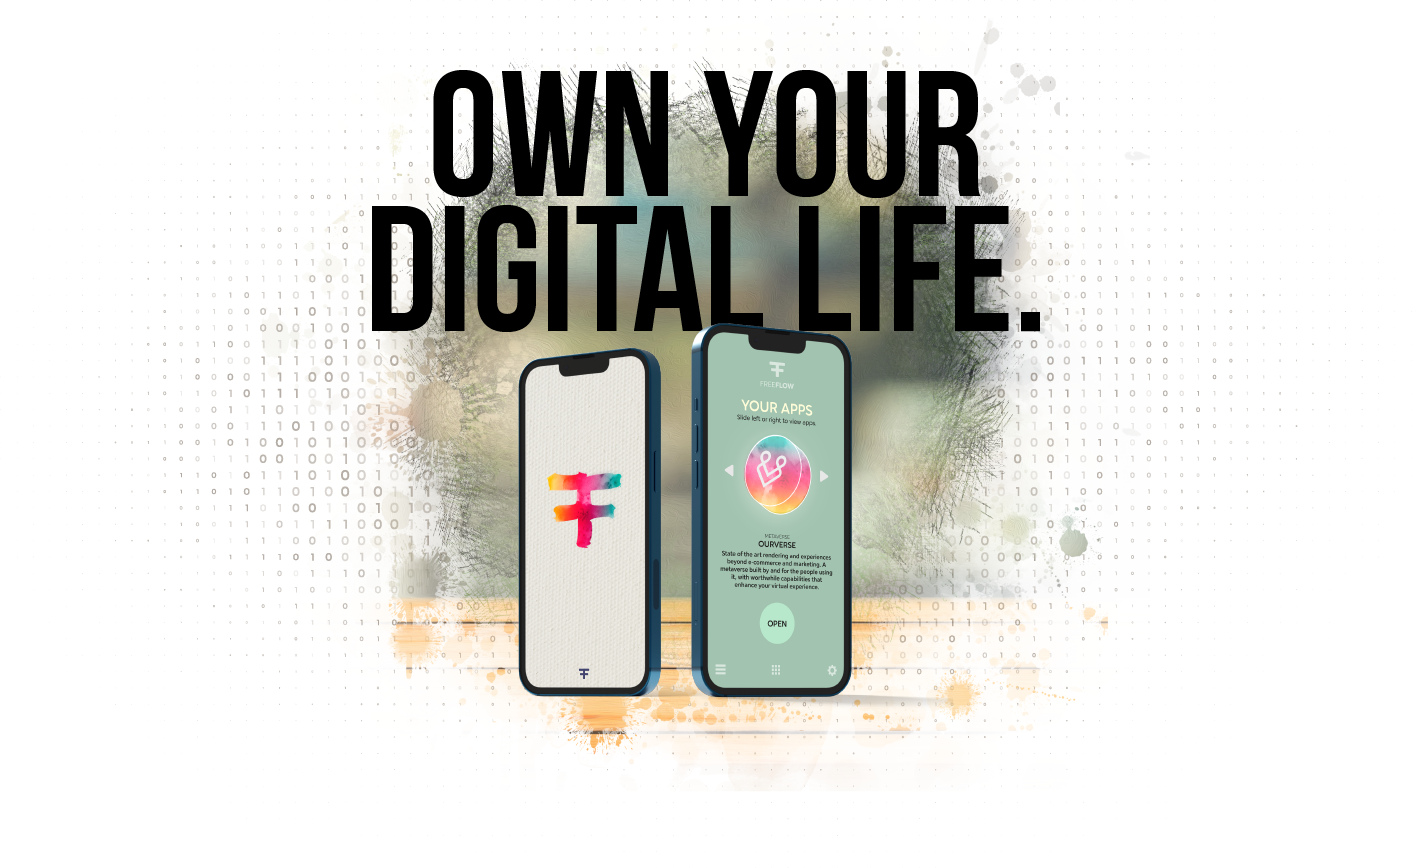
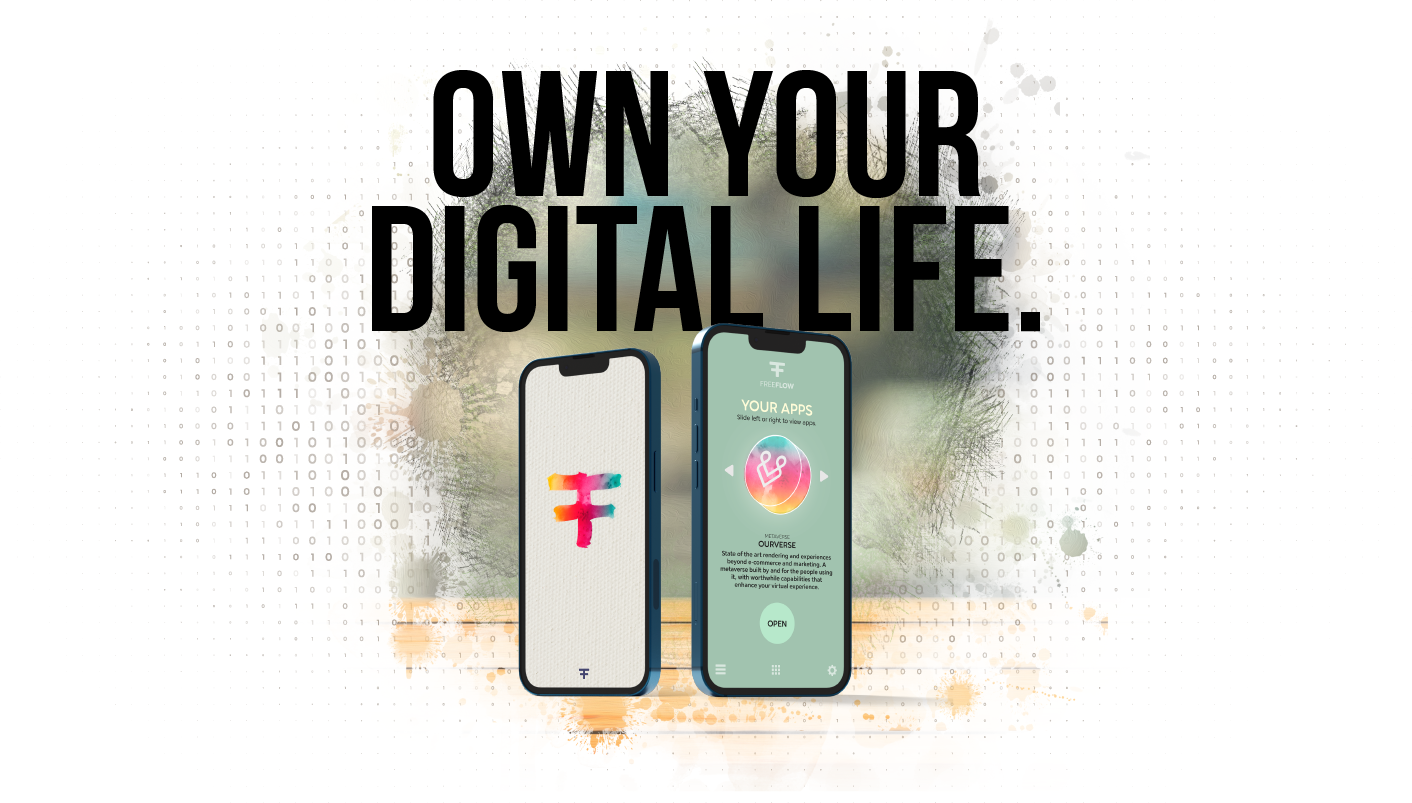
vision page image updates and row vertical spaciing fix

Changed region(s): [[0.1558, 0.0623, 0.779, 0.934], [0.7167, 0.0623, 0.7479, 0.1245], [0.8102, 0.4047, 0.8414, 0.4359]]

diff --git a/css/index.css b/css/index.css
@@ -36,8 +36,8 @@
 @font-face {
     font-family: "BebasNeue";
     font-weight: 600;
-    src: url("https://www2.freeflow.life/fonts/BebasNeue-Bold.otf") format("opentype");
-    src: url("../fonts/BebasNeue-Bold.otf") format("opentype");
+    src: url("https://www2.freeflow.life/fonts/BebasNeue-Bold.ttf") format("opentype");
+    src: url("../fonts/BebasNeue-Bold.ttf") format("opentype");
 }
 
 * {
@@ -96,19 +96,21 @@ img[src*="#tft_img"] {
 @layer components {
   h1, #h1  {
     @apply text-4xl md:text-4xl lg:text-6xl leading-none font-normal my-4;
+    font-family: "BebasNeue", sans-serif
   }
   h1 strong {
     @apply font-medium;
   }
   h2 {
-    @apply text-3xl md:text-4xl lg:text-5xl xl:text-5xl font-bold leading-none my-4;
-    font-family: "BebasNeue", sans-serif
+    @apply text-3xl md:text-4xl lg:text-5xl xl:text-8xl font-bold leading-none my-4;
+    font-family: "BebasNeue", sans-serif;
+    line-height: 0.8;
   }
   h2 strong {
     @apply font-medium;
   }
   h3 {
-    @apply text-xl md:text-2xl lg:text-3xl font-light my-4;
+    @apply text-xl md:text-xl lg:text-2xl font-normal my-4;
   }
   h3 strong {
     @apply font-medium;
@@ -123,7 +125,7 @@ img[src*="#tft_img"] {
     @apply text-lg not-italic font-normal my-1;
   }
   p {
-    @apply text-base lg:text-lg leading-tight tracking-normal font-normal my-4;
+    @apply text-base lg:text-xl leading-tight tracking-normal font-normal my-4;
     font-family: "CercoDEMO", sans-serif;
   }
   blockquote {
@@ -149,7 +151,11 @@ img[src*="#tft_img"] {
 }
 
 button:hover :is(:where(a)) {
-  color: #c6f8ff;
+  color: #984210;
+}
+
+button :is(:where(a)) {
+font-weight: 500;
 }
 
 button :is(:where(p)) {
@@ -163,6 +169,10 @@ button :is(:where(p)) {
     color: black;
     padding: 20px;
     width: fit-content;
+}
+
+.experience-btn p {
+    @apply text-lg;
 }
 
 .experience-btn:hover {

diff --git a/templates/shortcodes/row.html b/templates/shortcodes/row.html
@@ -35,7 +35,7 @@ Parameters:
 
 {% set columns = body | safe | markdown | split(pat="<p>|||</p>") %}
 
-{% set row_class =  "relative py-12 md:py-16 lg:py-20 flex flex-col sm:grid sm:grid-cols-2 sm:gap-10 md:flex md:flex-row flex-wrap max-w-fit "%}
+{% set row_class =  "relative py-4 md:py-8 lg:py-12 flex flex-col sm:grid sm:grid-cols-2 sm:gap-10 md:flex md:flex-row flex-wrap max-w-fit "%}
 
 <!-- aligns columns depending on col number-->
 {% if 2 < columns | length %}
@@ -75,6 +75,10 @@ Parameters:
         {% set col_class = col_class ~ " md:first:px-8  lg:first:px-20 lg:max-w-[50%] lg:mx-0 " ~ margin_left ~ margin_right %}
         {% set row_class = row_class ~ " sm:gap-0 " %}
     {% endif %}
+{% endif %}
+
+{% if css %}
+    {% set margin_class = margin_class ~ " " ~ css %}
 {% endif %}
 
 {% set row_class =  row_class ~ margin_class %}

diff --git a/tailwind.config.js b/tailwind.config.js
@@ -1,10 +1,14 @@
 /** @type {import('tailwindcss').Config} */
 module.exports = {
-  content: ['./templates/**/*.html'],
+  content: ['./templates/**/*.html', './content/**/*.md'],
   safelist: [
     {
         pattern: /(-|)(ml|mr)-(4|8|12|16|20|24|28)/,
         variants: ['sm', 'md', 'lg', 'first', 'first:sm', 'first:md', 'first:lg', 'last', 'last:sm', 'last:md', 'last:lg'],
+    },
+    {
+        pattern: /(pt|pb)-(0)/,
+        variants: ['!', 'lg', 'first', 'first:sm', 'first:md', 'first:lg', 'last', 'last:sm', 'last:md', 'last:lg'],
     }
   ],
   theme: {

diff --git a/css/layout.css b/css/layout.css
@@ -10,6 +10,9 @@ main {
 #text-6xl { @apply xl:text-6xl lg:text-5xl md:text-4xl sm:text-3xl}
 #text-7xl { @apply text-7xl }
 #text-8xl { @apply text-8xl }
+#text-9xl { 
+    font-size: 8rem;
+}
 
 #xp-heading { @apply m-0 }
 /*

diff --git a/content/vision/index.md b/content/vision/index.md
@@ -11,7 +11,7 @@ weight: 2
 
 {% row(style="center" bgPath="FFVISIONAsset_20.png" bgStyle="hero" margin="tight") %}
 
-![FF TWIN](FFVISIONAsset_21.png#fill)
+![FF TWIN](vision1.png#fill)
 
 A global network of decentralized compute and storage that fuels unparalleled privacy, impenetrable security and provides everyone with endless opportunities and complete control of their digital lives.
 
@@ -21,13 +21,13 @@ A global network of decentralized compute and storage that fuels unparalleled pr
 
 {% row(bgColor="#f0ece8" margin="moderate") %}
 
-![FF LIFE](FFVISIONAsset_22.png#fill)
+![FF LIFE](vision2.png#fill)
 
 |||
 
 ## IT STARTS WITH <br> THE FREEFLOW GRID
 
-![FF LIFE](FFVISIONAsset_23.png)
+![FF LIFE](vision3.png)
 
 People just like you deploy the FreeFlow Node is residential and commercial units.  
 
@@ -37,7 +37,7 @@ Our unique operating system interconnects these nodes to create the FreeFlow Gri
 
 {% row(style="center" bgColor="#f0ece8" margin="narrow") %}
 
-![FF LIFE](FFVISIONAsset_24.png#fill)
+![FF LIFE](vision5.png#fill)
 
 {% end %}
 
@@ -55,19 +55,19 @@ By eliminating the need for centralized servers, the FreeFlow Twin allows you, t
 
 |||
 
-![FF LIFE](FFVISIONAsset_25.png#fill)
+![FF LIFE](vision6.png#fill)
 
 {% end %}
 
 {% row(bgColor="#D9E7DF" margin="narrow") %}
 
-![FF LIFE](FFVISIONAsset_26.png#fill)
+![FF LIFE](vision7.png#fill)
 
 {% end %}
 
 {% row(margin="moderate") %}
 
-![FF LIFE](FFVISIONAsset_27.png#fill)
+![FF LIFE](vision8.png#fill)
 
 |||
 
@@ -83,15 +83,15 @@ Each application is decentralized and allows users a fully private and secure ex
 
 {% row(style="center" margin="narrow") %}
 
-![FF LIFE](FFVISIONAsset_28.png#fill)
+![FF LIFE](vision10.png#fill)
 
 {% end %}
 
 {% row(style="center" margin="tight" bgColor="#f9f8f6") %}
 
-![FF LIFE](FFVISIONAsset_29.png#fill)
+![FF LIFE](vision11.png#fill)
 
-Play your part in the rise of the new digital life. 
+### Play your part in the rise of the new digital life. 
 
 <button>[TAKE PART]("/experiences")</button>
 

diff --git a/content/node/index.md b/content/node/index.md
@@ -11,13 +11,16 @@ weight: 0
 
 {% row(style="center" margin="moderate" bgStyle="hero") %}
 
+<br>
+<br>
+
 ![FF Logo](node1.png#fill) 
 
 {% end %}
 
 {% row(style="center" margin="tight" bgColor="#F2EDE8") %}
 
-## EARN.
+## EARN.{#text-9xl}
 
 Provide the compute, storage and network capacity needed to store data and run applications on the FreeFlow Grid and start earning.
 
@@ -35,9 +38,9 @@ Provide the compute, storage and network capacity needed to store data and run a
 
 |||
 
-## BE THE <br> INTERNET.
+## BE THE <br> INTERNET.{#text-9xl}
 
-By simply plugging in a FreeFlow Node, you can provide the services that the world’s largest tech companies provide billions of users.
+### By simply plugging in a FreeFlow Node, you can provide the services that the world’s largest tech companies provide billions of users.
 
 {% end %}
 
@@ -49,9 +52,9 @@ By simply plugging in a FreeFlow Node, you can provide the services that the wor
 
 {% row(margin="moderate" bgColor="#F7F4F1") %}
 
-## LET'S <br> FREEFLOW.
+## LET'S <br> FREEFLOW. {#text-9xl}
 
-The FreeFlow Node was designed to fit any home or office. It is packed with performance for its price and doesn’t require any technical knowledge. Just order, plug it in and start earning!
+### The FreeFlow Node was designed to fit any home or office. It is packed with performance for its price and doesn’t require any technical knowledge. Just order, plug it in and start earning!
 
 <button>[GET A NODE]("/")</button>
 

diff --git a/content/twin/index.md b/content/twin/index.md
@@ -81,7 +81,7 @@ This model completely alliviates the concerns of the centralized data center mod
 
 {% row(bgColor="#f3fcf6" style="center" margin="moderate lean-right") %}
 
-## RIDICULOUSLY <br> **GREEN.**
+## RIDICULOUSLY <br> GREEN.
 
 A typical FreeFlow user consumes less than five watts to access their entire digital life. 
 
@@ -93,16 +93,20 @@ This ultra-sustainable approach allows the system to easily scale without being 
 
 {% end %}
 
-{% row(style="center" bgColor="#EFEDEB" margin="moderate") %}
+{% row(style="center" bgColor="#EFEDEB" margin="moderate" css="!pb-0") %}
 
 ![FF LIFE](twin6.png#fill)
 
 {% end %}
 
-{% row(style="center" bgColor="#EFEDEB" margin="tight") %}
+{% row(style="center" bgColor="#EFEDEB" margin="none" css="!pt-0") %}
 
-Become the center of your digital life and experience complete control.  Get your FreeFlow key now!
+|||
+
+Become the center of your digital life and experience complete control. Get your FreeFlow key now!
 
 <button>[GET THE TWIN]("/")</button>
+
+|||
 
 {% end %}
